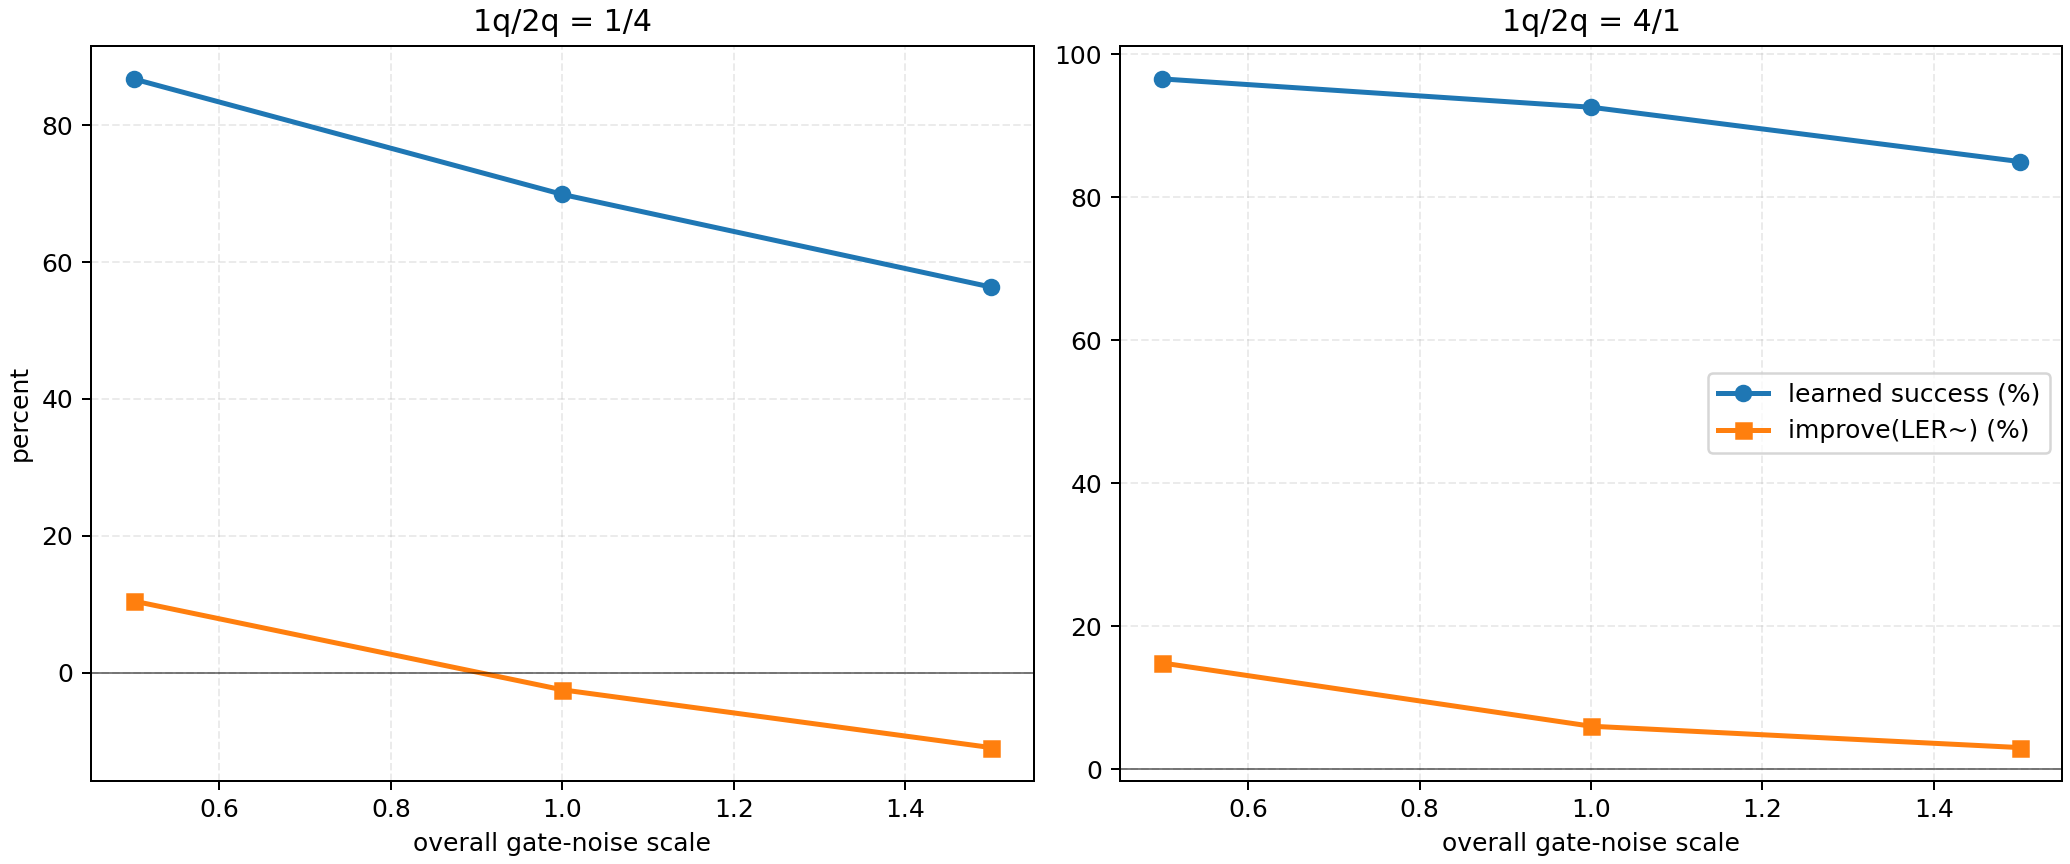
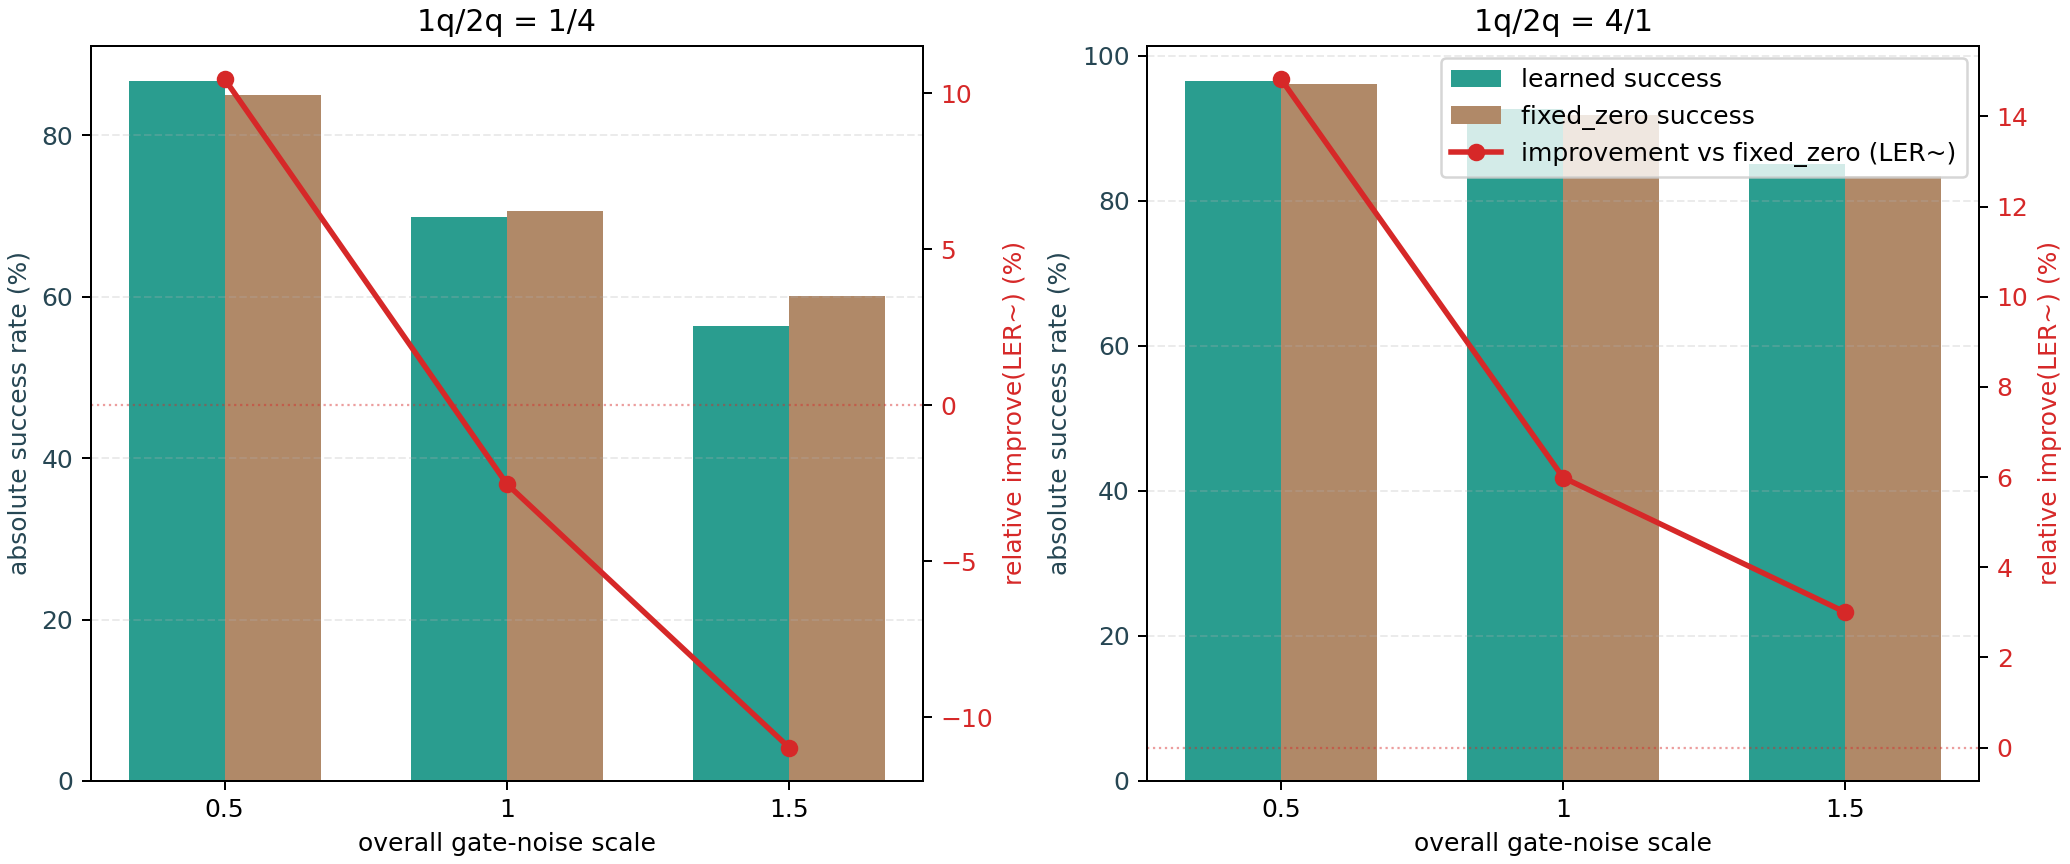
Redesign Expr1 plot to show absolute and relative metrics

diff --git a/code/rl_train/benchmarks/plot_rl_steane_tune_experiment.py b/code/rl_train/benchmarks/plot_rl_steane_tune_experiment.py
@@ -27,9 +27,23 @@ def _load_stage_rows(summary_path: Path) -> list[dict[str, Any]]:
                 "p_meas": float(cfg.get("steane_measurement_bitflip_prob", 0.0)),
                 "improve_ler_mean": float(agg.get("improvement_vs_fixed_zero", {}).get("ler_proxy_mean", float("nan"))),
                 "learned_success_mean": float(agg.get("learned_policy", {}).get("success_rate_mean", float("nan"))),
+                "fixed_zero_success_mean": _aggregate_fixed_zero_success(summary_path.parent / stage_name),
             }
         )
     return rows
+
+
+def _aggregate_fixed_zero_success(stage_dir: Path) -> float:
+    vals: list[float] = []
+    for path in sorted(stage_dir.glob("seed_*.json")):
+        payload = json.loads(path.read_text(encoding="utf-8"))
+        fixed_zero = payload.get("eval_metrics", {}).get("fixed_zero", {})
+        success_rate = fixed_zero.get("success_rate")
+        if success_rate is not None:
+            vals.append(float(success_rate))
+    if not vals:
+        return float("nan")
+    return float(np.mean(np.asarray(vals, dtype=float)))
 
 
 def _aggregate_cycle_files(files: list[Path]) -> dict[tuple[str, int], tuple[float, float]]:
@@ -55,19 +69,45 @@ def _plot_expr1_phasea(rows: list[dict[str, Any]], out_path: Path) -> None:
         ("1q/2q = 1/4", lambda r: abs((r["regime_b"] / max(r["regime_a"], 1e-12)) - 4.0) < 1e-9, "regime_a"),
         ("1q/2q = 4/1", lambda r: abs((r["regime_a"] / max(r["regime_b"], 1e-12)) - 4.0) < 1e-9, "regime_b"),
     ]
+    abs_colors = {"learned": "#2a9d8f", "fixed_zero": "#b08968"}
+    rel_color = "#d62828"
     for ax, (title, pred, xkey) in zip(axes, specs):
         subset = sorted([r for r in rows if pred(r)], key=lambda r: float(r[xkey]))
-        xs = [float(r[xkey]) for r in subset]
-        succ = [100.0 * float(r["learned_success_mean"]) for r in subset]
-        imp = [100.0 * float(r["improve_ler_mean"]) for r in subset]
-        ax.plot(xs, succ, marker="o", linewidth=2.0, label="learned success (%)")
-        ax.plot(xs, imp, marker="s", linewidth=2.0, label="improve(LER~) (%)")
-        ax.axhline(0.0, color="black", linewidth=0.8, alpha=0.5)
+        xpos = np.arange(len(subset), dtype=float)
+        width = 0.34
+        learned = [100.0 * float(r["learned_success_mean"]) for r in subset]
+        fixed_zero = [100.0 * float(r["fixed_zero_success_mean"]) for r in subset]
+        improve = [100.0 * float(r["improve_ler_mean"]) for r in subset]
+        tick_labels = [f"{float(r[xkey]):g}" for r in subset]
+
+        ax.bar(xpos - width / 2.0, learned, width=width, color=abs_colors["learned"], label="learned success")
+        ax.bar(xpos + width / 2.0, fixed_zero, width=width, color=abs_colors["fixed_zero"], label="fixed_zero success")
+        ax.set_xticks(xpos)
+        ax.set_xticklabels(tick_labels)
         ax.set_title(title)
         ax.set_xlabel("overall gate-noise scale")
-        ax.grid(alpha=0.25, linestyle="--")
-    axes[0].set_ylabel("percent")
-    axes[1].legend(loc="best")
+        ax.set_ylabel("absolute success rate (%)", color="#264653")
+        ax.tick_params(axis="y", labelcolor="#264653")
+        ax.grid(axis="y", alpha=0.25, linestyle="--")
+
+        ax_rel = ax.twinx()
+        ax_rel.plot(
+            xpos,
+            improve,
+            marker="o",
+            markersize=6.0,
+            linewidth=2.2,
+            color=rel_color,
+            label="improvement vs fixed_zero (LER~)",
+        )
+        ax_rel.axhline(0.0, color=rel_color, linewidth=0.9, alpha=0.45, linestyle=":")
+        ax_rel.set_ylabel("relative improve(LER~) (%)", color=rel_color)
+        ax_rel.tick_params(axis="y", labelcolor=rel_color)
+
+        if ax is axes[1]:
+            handles_abs, labels_abs = ax.get_legend_handles_labels()
+            handles_rel, labels_rel = ax_rel.get_legend_handles_labels()
+            ax.legend(handles_abs + handles_rel, labels_abs + labels_rel, loc="best")
     out_path.parent.mkdir(parents=True, exist_ok=True)
     fig.savefig(out_path, dpi=180)
     plt.close(fig)
